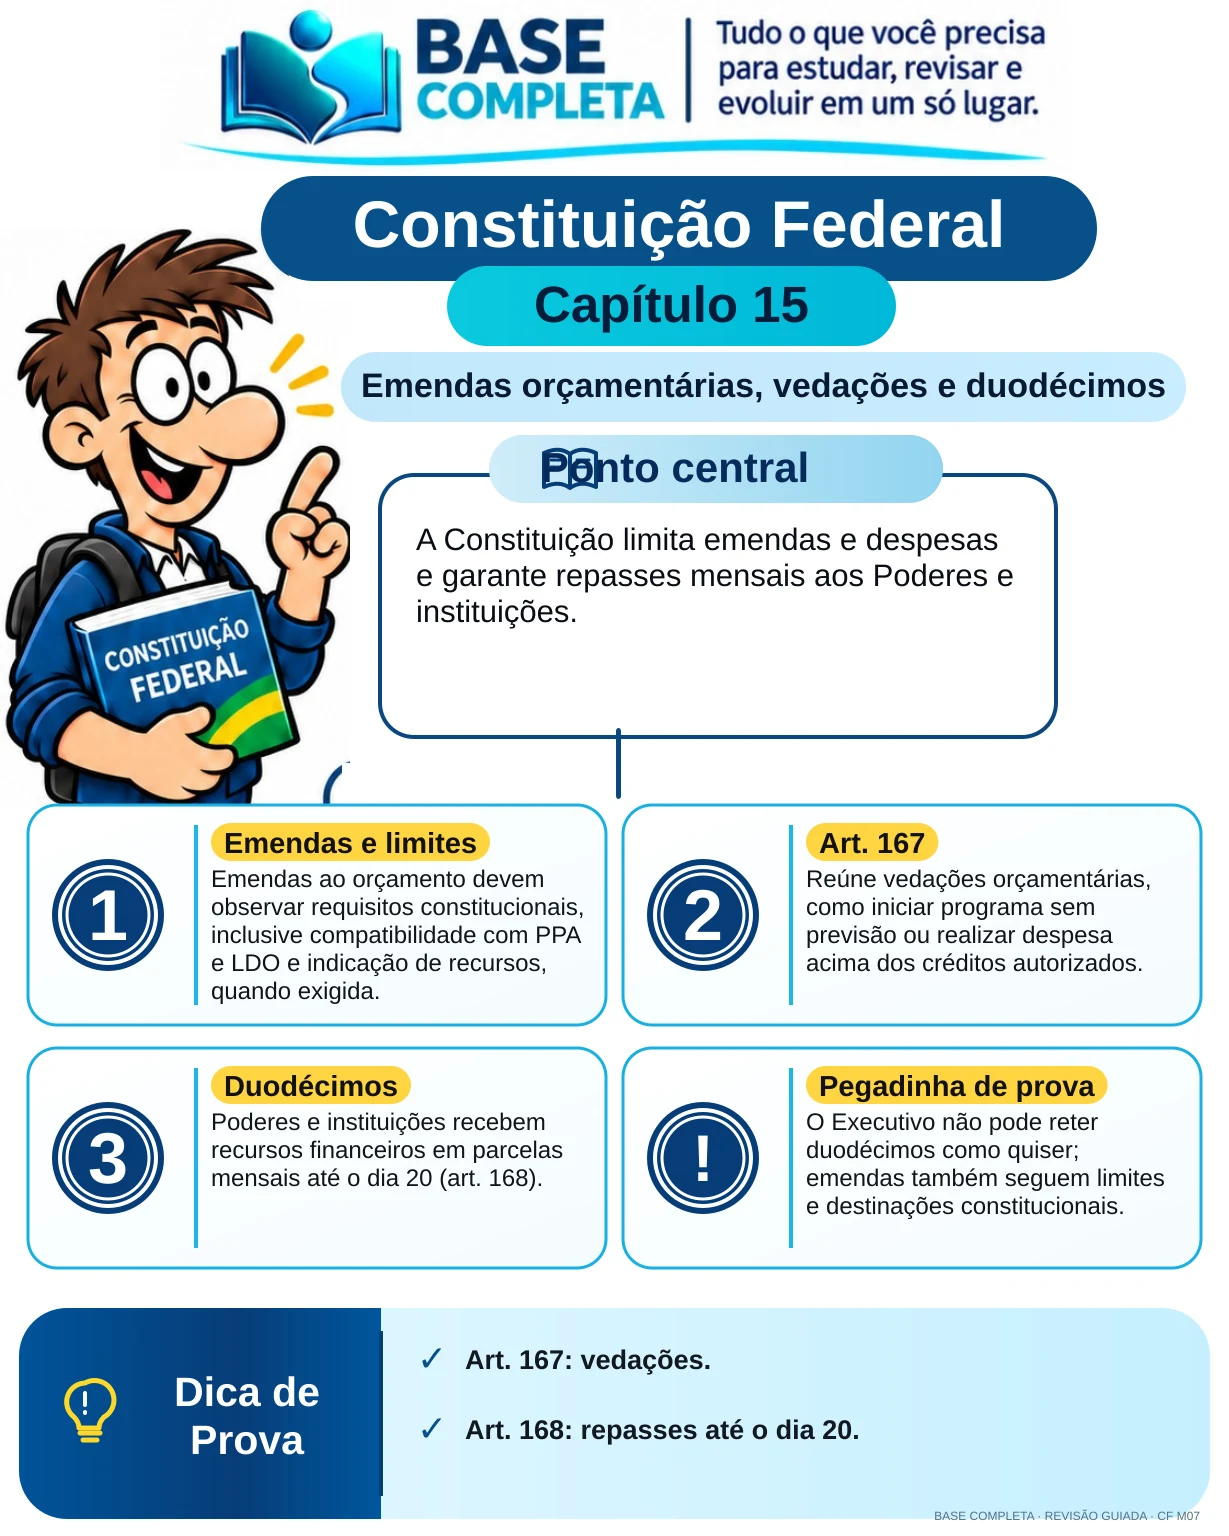
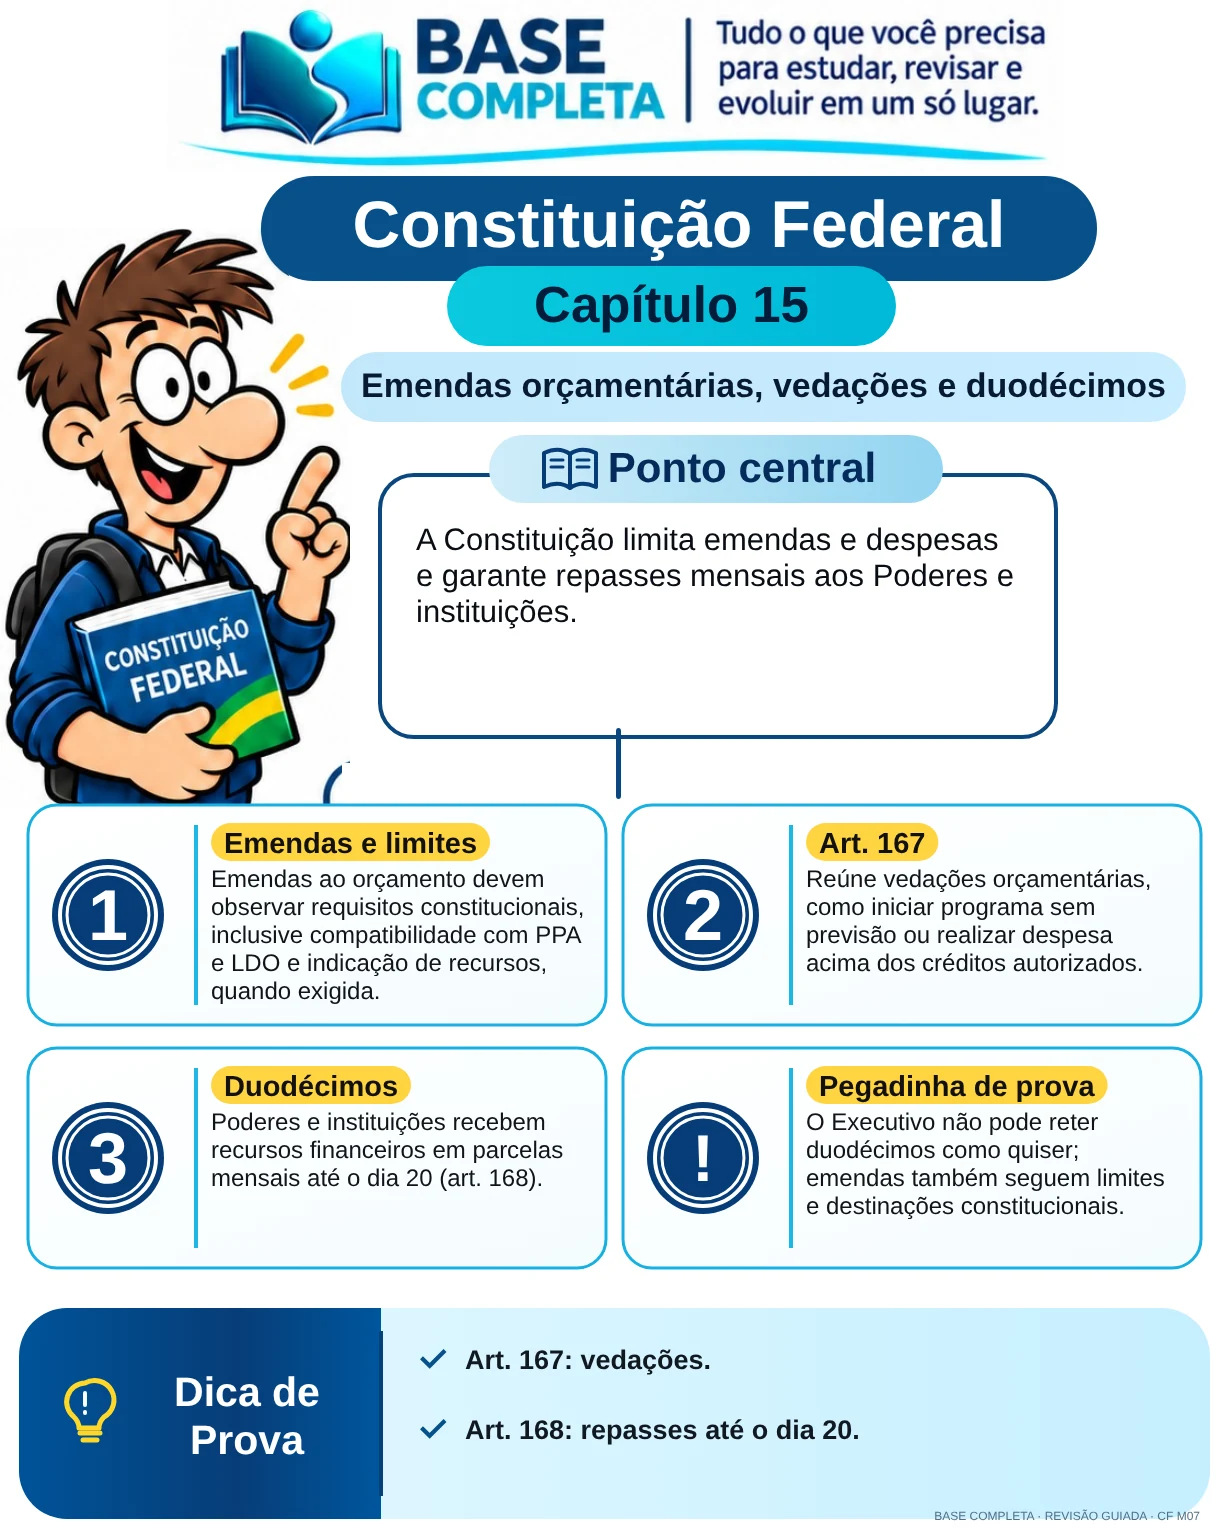
fix(cf): M07 — ícone do livro não cobre mais a letra P de 'Ponto central' nas 16 artes
Claude-Session: https://claude.ai/code/session_01Y6d7FpMic8W63gCkwZSCfE

Changed region(s): [[0.4329, 0.2812, 0.7111, 0.3125], [0.3401, 0.875, 0.371, 0.9375]]

diff --git a/artes/cf-m07/render.py b/artes/cf-m07/render.py
@@ -65,14 +65,11 @@ def build(item):
     svg.append('<rect x="341" y="352" width="845" height="70" rx="35" fill="url(#pale)"/>')
     size=fit_size(item['title'],805,36,27)
     svg.append(text_svg(item['title'],763.5,397,size,'bold',DARK,805,line_height=size*1.04,align='middle')[0])
-    svg.append('<rect x="489" y="435" width="454" height="68" rx="34" fill="url(#center)"/>')
-    svg.append('<g transform="translate(540 445)" fill="none" stroke="#063c78" stroke-width="4" stroke-linejoin="round"><path d="M4 8c11-5 19-4 26 1v34c-7-5-15-6-26-1zM56 8c-11-5-19-4-26 1v34c7-5 15-6 26-1z"/><path d="M11 15h12M11 22h12M37 15h12M37 22h12" stroke-width="3" stroke-linecap="round"/></g>')
-    svg.append(text_svg('Ponto central',675,482,42,'bold','#062b5c',275,line_height=44,align='middle')[0])
     svg.append('<rect x="380" y="475" width="676" height="262" rx="34" fill="#fff" stroke="#0b477f" stroke-width="4"/>')
     # The label overlaps the top edge of the central box in the original template.
     svg.append('<rect x="489" y="435" width="454" height="68" rx="34" fill="url(#center)"/>')
     svg.append('<g transform="translate(540 445)" fill="none" stroke="#063c78" stroke-width="4" stroke-linejoin="round"><path d="M4 8c11-5 19-4 26 1v34c-7-5-15-6-26-1zM56 8c-11-5-19-4-26 1v34c7-5 15-6 26-1z"/><path d="M11 15h12M11 22h12M37 15h12M37 22h12" stroke-width="3" stroke-linecap="round"/></g>')
-    svg.append(text_svg('Ponto central',675,482,42,'bold','#062b5c',275,line_height=44,align='middle')[0])
+    svg.append(text_svg('Ponto central',742,482,42,'bold','#062b5c',275,line_height=44,align='middle')[0])
     central,cl=text_svg(item['central'],416,550,31,'normal','#090d14',604,35.96,max_lines=5)
     svg.append(central)
     svg.append('<rect x="616" y="728" width="5" height="71" rx="3" fill="#0b477f"/>')
